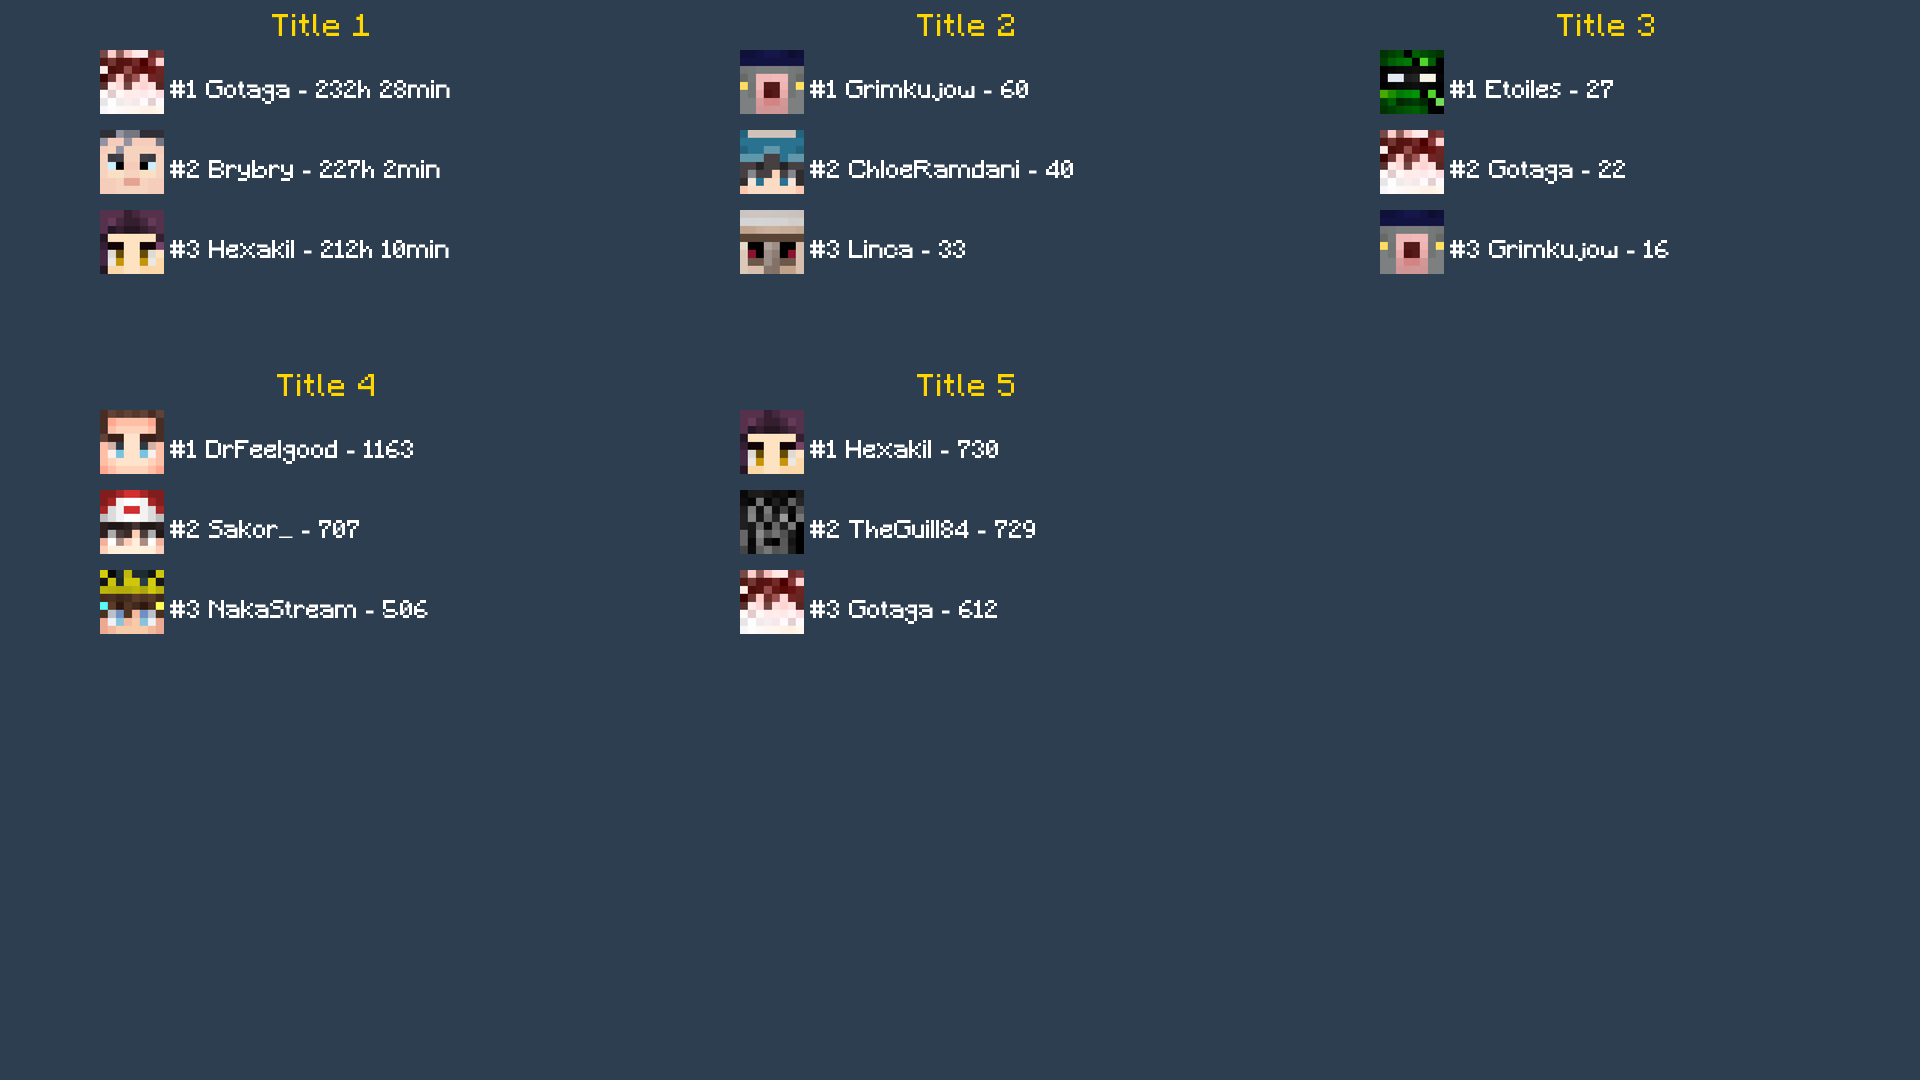
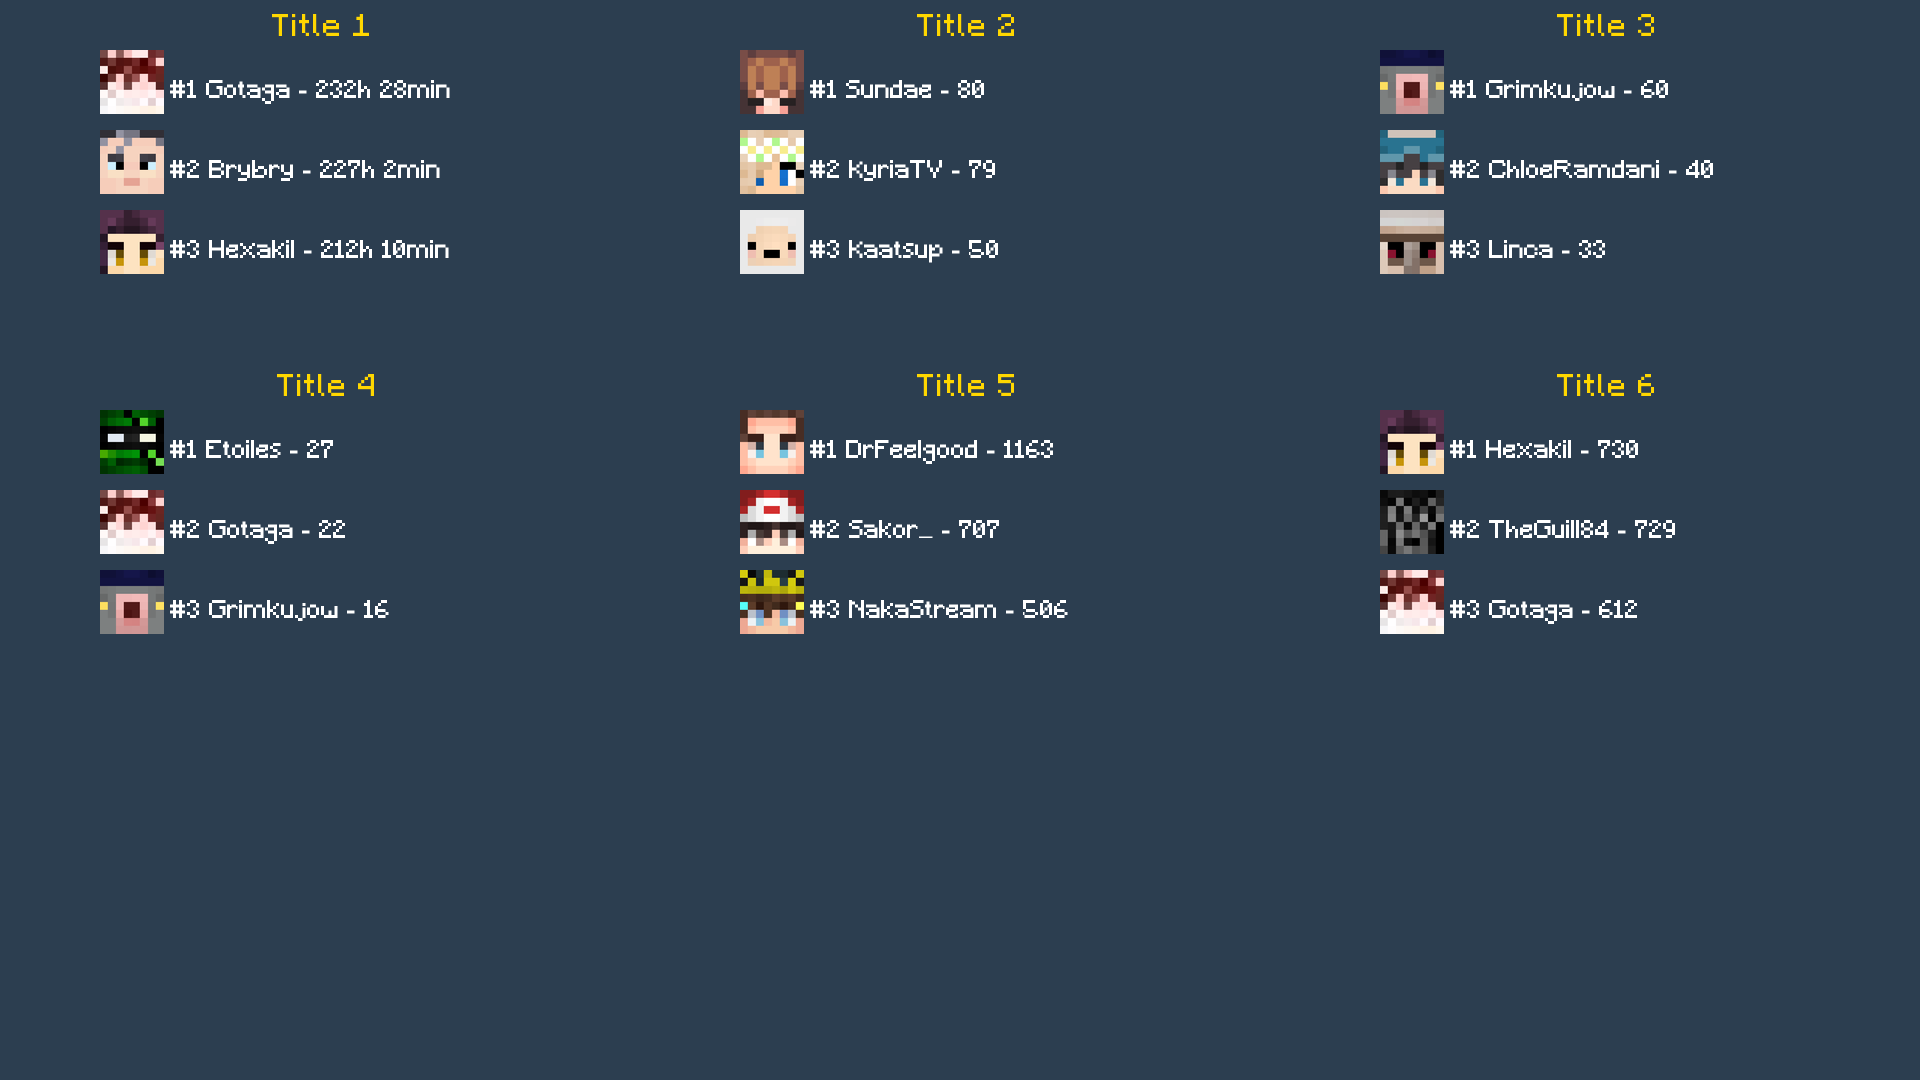
Total of stats category

diff --git a/main.py b/main.py
@@ -459,10 +459,13 @@ def loadCobblemonData(csvtoggle, csvpath, inputmode, ftpserver, ftppath, localpa
     return df, df2
 
 
-def getVanillaLeaderboard(df, cat, subcat, verbose=True, case=None):
-    row = df.loc['stats'].loc[cat].loc[subcat].sort_values().iloc[::-1]
+def getVanillaLeaderboard(df, cat, subcat, verbose=True):
+    if subcat == "total":
+        row = df.loc['stats'].loc[cat].sum().sort_values().iloc[::-1]
+    else:
+        row = df.loc['stats'].loc[cat].loc[subcat].sort_values().iloc[::-1]
     df = pd.DataFrame(row).rename(columns={subcat: 0})
-    if case == "playtime":
+    if cat == "minecraft:custom" and subcat == "minecraft:play_time":
         df[0] = df[0].apply(lambda x: f"{(int(x) // (20*60*60))}h {((int(x)) // (20*60))%60}min")
     if verbose:
         print("Leaderboard of", cat, subcat, ":")
@@ -733,7 +736,7 @@ for leaderboard_type in config['TOPIMAGE']['Leaderboards'].split(','):
     if leaderboard_type.split('/')[0] == "vanilla":
         if leaderboard_type.split('/')[1] == "minecraft:custom":
             if leaderboard_type.split('/')[2] == "minecraft:play_time":
-                leaderboards_to_show.append(getVanillaLeaderboard(vanilla_df, leaderboard_type.split('/')[1], leaderboard_type.split('/')[2], False, "playtime"))
+                leaderboards_to_show.append(getVanillaLeaderboard(vanilla_df, leaderboard_type.split('/')[1], leaderboard_type.split('/')[2], False))
             else:
                 leaderboards_to_show.append(getVanillaLeaderboard(vanilla_df, leaderboard_type.split('/')[1], leaderboard_type.split('/')[2], False))
         else:
